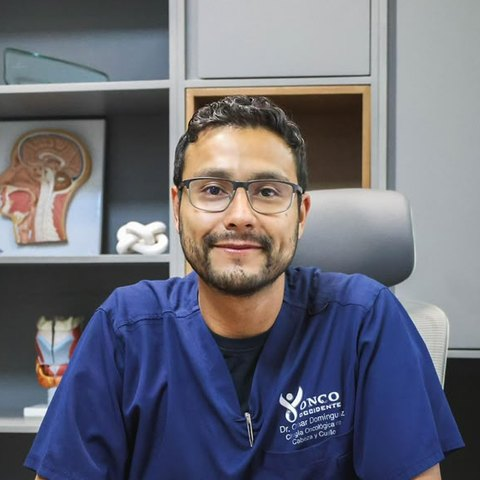
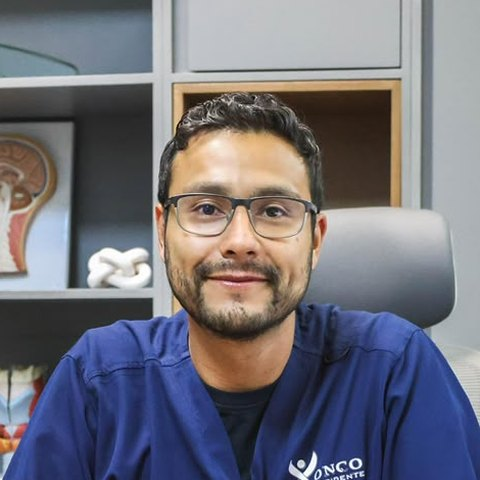
Dr. Domínguez: recorte más cerrado, parejo con los demás círculos

diff --git a/index.html b/index.html
@@ -734,7 +734,7 @@ document.querySelectorAll('[data-wa]').forEach(function (a) {
    Cada médico tiene liga directa: la página + #medico-<id>. */
 var lugares = [
   {id: 'dominguez-palomera', nombre: 'Dr. Luis Omar Domínguez Palomera', esp: 'Cirugía Oncológica de Cabeza y Cuello',
-   foto: 'img/dr-dominguez.jpg', agenda: ['Oncología de cabeza y cuello'],
+   foto: 'img/dr-dominguez.jpg?v=2', agenda: ['Oncología de cabeza y cuello'],
    perfil: {
      sub: '',  /* el doctor pidió (28-oct) que solo diga "Cirugía Oncológica de Cabeza y Cuello" */
      edades: 'Adultos',
